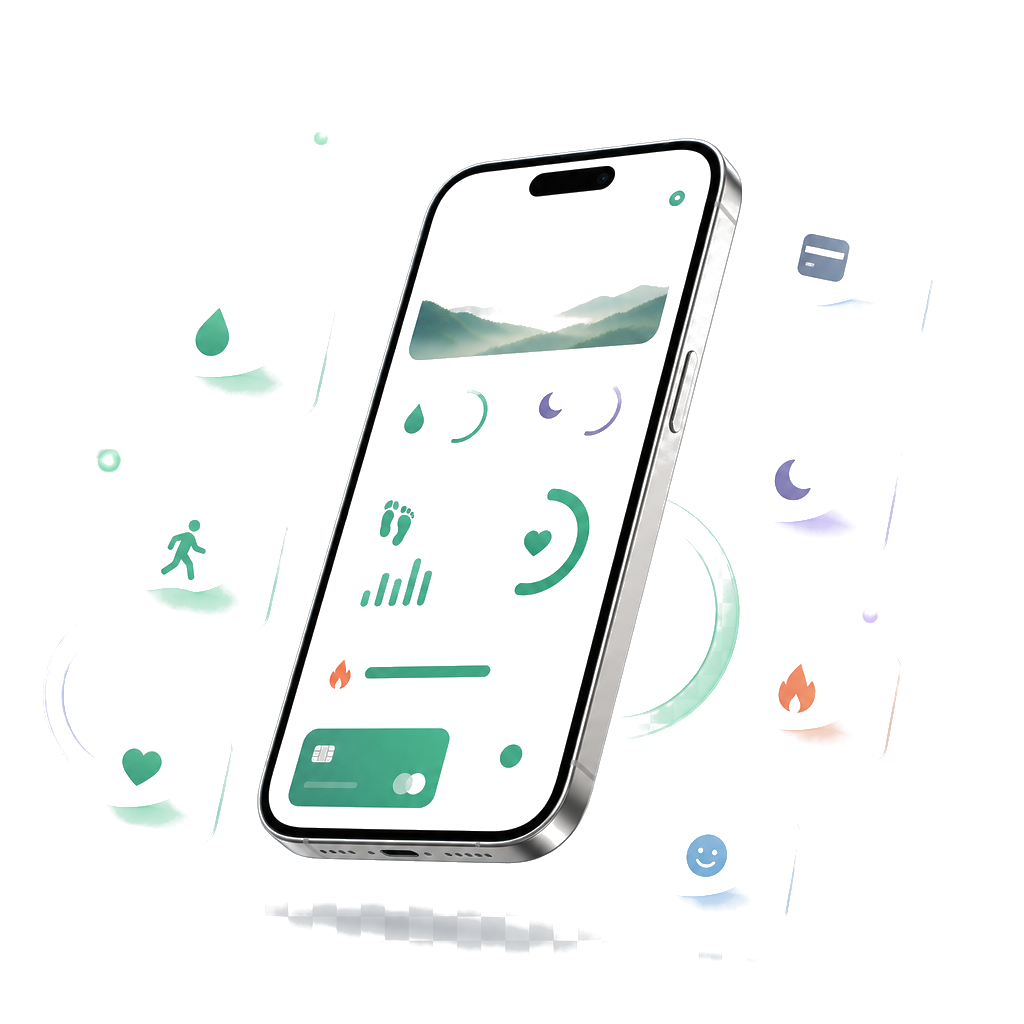
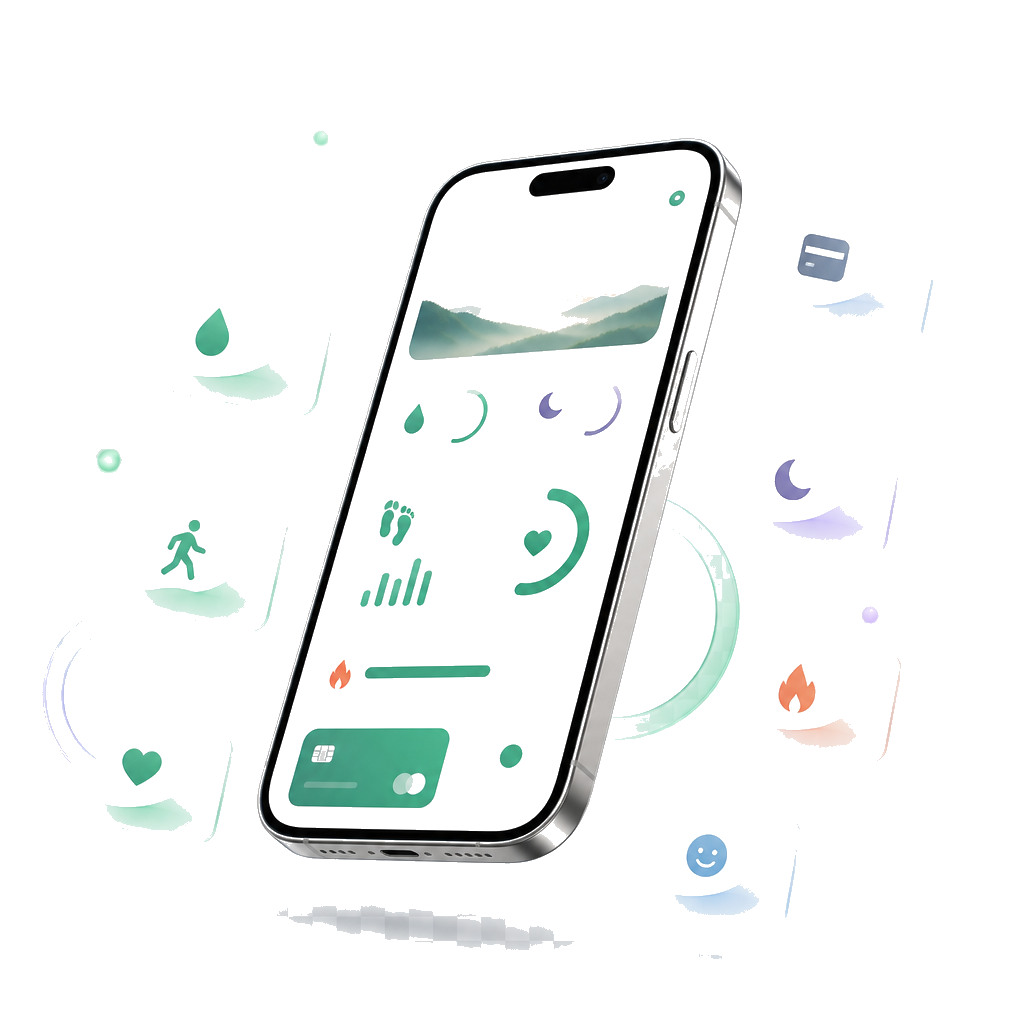
Fix hero phone checkerboard on mobile with dark composite image
Replace broken transparent PNG (checkerboard alpha artifact) with a
#050508-backed composite that blends seamlessly into the dark hero.

diff --git a/saathly/src/components/HeroPhoneShowcase.tsx b/saathly/src/components/HeroPhoneShowcase.tsx
@@ -9,12 +9,12 @@ export function HeroPhoneShowcase() {
       <div className="hero-phone-glow hero-artwork-glow" />
       <div className="hero-artwork-float mx-auto w-full max-w-[min(420px,92vw)]">
         <Image
-          src="/images/rizn-hero-visual-transparent.png"
+          src="/images/rizn-hero-visual-dark.png"
           alt=""
           width={1024}
           height={1024}
           priority
-          className="w-full h-auto drop-shadow-2xl"
+          className="w-full h-auto"
           sizes="(max-width: 768px) 92vw, 420px"
         />
       </div>
